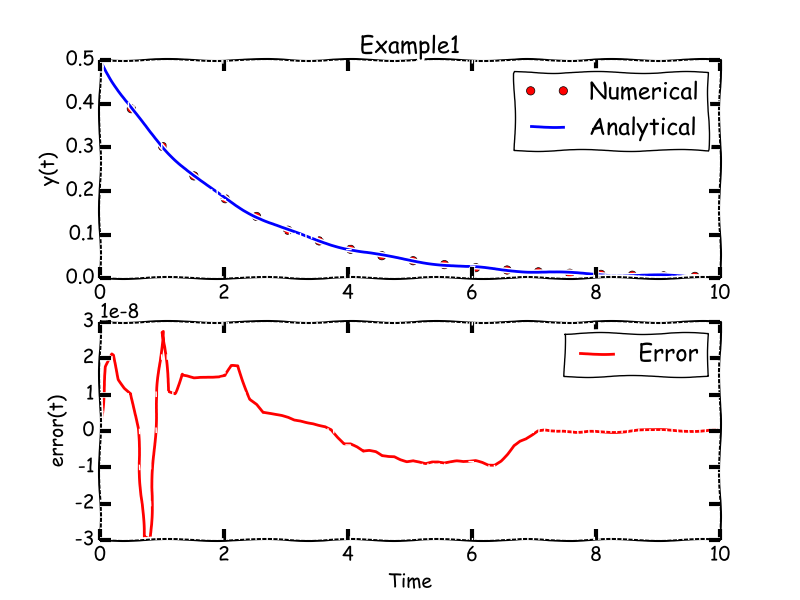
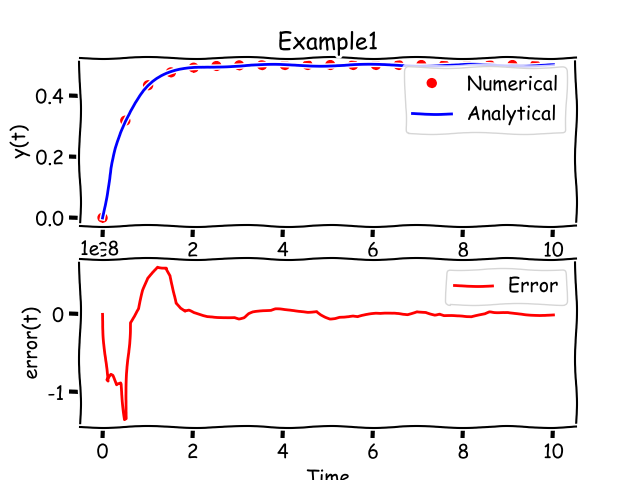
update example 1

diff --git a/ODE_Delta/raw/example1_old.py b/ODE_Delta/raw/example1_old.py
@@ -7,16 +7,17 @@ T = 2.0
 title1 = 'Example1'
 
 def y_ex1(t):
-	return (1.0/T)*(1-np.exp(-t*T))
+	return (1.0/T)*np.exp(-t/T)
 
-va = [1, T, 0]
+va = [T, 1]
 b = 1
 c = 0
-IC0 = [0, 0]
+IC0 = [0]
 t0 = 0
 tb = 10
 N = 100
 
+#Z = hlp.mkSlnT1_a(va, b, IC0, t0, tb, N)
 Z = hlp.mkSlnT1_c(va, b, c, IC0, t0, tb, N)
 
 plt.xkcd()

diff --git a/ODE_Delta/raw/4_VerificationType0.md b/ODE_Delta/raw/4_VerificationType0.md
@@ -1,36 +1,59 @@
 ###3. Verification by examples
 Let's check the main result from previous chapter on examples Appendix B from.
-#####3.1 Example1 [Ogata, p.190]
+#####3.1 Example1 [Oliveira and Cortes, p.3]
 Considering the following first order ODE
-$$\begin{cases}
-Ty'+y=\delta(t),\\
-y(0)=0
-\end{cases}\Rightarrow IVP(\{T\text{ }1\}, \mathbf{0}, t_0=0,y_0=0)\Rightarrow [A]=T,\{y\}_0=y(0),\{d\}=\{1\} \Rightarrow\\
-\{z\}_0=\{y\}_0+[A]^{-1}\{d\}=\{y\}_0+1/T \Rightarrow$$
+$$
+\begin{cases}
+y''+ay'=\delta(t),\\
+y(0)=y'(0)=0
+\end{cases}
+\Rightarrow IVP(\{1\text{ }a\text{ }0\}, \mathbf{0}, t_0=0,y_0=\{0\text{, }0\})\Rightarrow\\
+A=\left[
+    \begin{matrix}
+    1 & 0 \\
+    a & 1 \\
+    \end{matrix}\right]\text{, }
+\{d\}=\left\{
+    \begin{matrix}
+    0 \\
+    1 \\
+    \end{matrix}\right\}\Rightarrow\\
+A^{-1}=\left[
+    \begin{matrix}
+    1 & 0 \\
+    -a & 1 \\
+    \end{matrix}\right]\text{, }
+A^{-1}\{d\}=\left\{
+    \begin{matrix}
+    0 \\
+    1 \\
+    \end{matrix}\right\}
+$$
+
 These 2 following system are equal by solution
-$$\begin{cases}
-Ty'+y=\delta(t),\\
-y(0)=0
-\end{cases}\equiv\begin{cases}
-Tz'+z=0,\\
-z(0)=1/T
+$$
+\begin{cases}
+y''+ay'=\delta(t),\\
+y(0)=y'(0)=0
+\end{cases}
+\equiv
+\begin{cases}
+y''+ay'=0,\\
+y(0)=0\\y'(0)=1
 \end{cases}
 $$
 In short form:
 $$
-IVP(\{T\text{ }1\}, \delta(t), t_0=0,y_0=0)\equiv 
-IVP(\{T\text{ }1\}, 0, t_0=0,y_0=1/T)
+IVP(\{1\text{ }a\text{ }0\}, \delta(t), t_0=0,y_0=\{0\text{, }0\})\equiv 
+IVP(y_0=\{0\text{, }0\}, 0, t_0=0,y_0=\{0\text{, }1\})
 $$
 Which exactely the same as we mentioned before at Introduction (2.6)
 Let's check how to correspond the numerical solution for T=2 for homogenous sytem with non-null IC with analitical solution for the system
-$$
-\begin{cases}
-2y'+y=\delta(t),\\
-y(0)=0
-\end{cases}
-$$
+
 Analitycal solution taken from Appendix B:
-$$y(t)=\frac{1}{T}e^{-t/T}=\frac{1}{2}e^{-t/2}$$
+$$
+y(t)=\frac{1}{a}(1-e^{-at})
+$$
 
 Numerical solution and error provided by Python's script:
 <img src="ex1.png" width="400">

diff --git a/ODE_Delta/raw/References.md b/ODE_Delta/raw/References.md
@@ -28,13 +28,16 @@ Mathematics Department, Michigan State University, East Lansing, MI, 48824.
 Modern Control Engineering (5th edition)
 Copyright © 2010, 2002, 1997, 1990, 1970 Pearson Education, Inc.
 ISBN 10: 0-13-615673-8 ISBN 13: 978-0-13-615673-4
-[10] Rao Singiresu S.
+[10] Mauricio de Oliveira and Jorge Cortes
+Computing the Impulse Response, January 24, 2011
+http://control.ucsd.edu/mauricio/courses/mae143a/lectures/computingImpulseResponse.pdf
+[11] Rao Singiresu S.
 Mechanical Vibrations (5th Edition) 
 ISBN-13: 978-0132128193 ISBN-10: 0132128195
-[11] Weber, Arfken
+[12] Weber, Arfken
 Essential Mathematical Methods for Physicists
 Academic Press, 2003, ISBN: 0-12-059877-9
-[12] ZILL DENNIS G.
+[13] ZILL DENNIS G.
 A FIRST COURSE IN DIFFERENTIAL EQUATIONS with Modeling Applications (9th edition)
 Loyola Marymount University
 © 2009, 2005 Brooks/Cole, Cengage Learning

diff --git a/ODE_Delta/raw/AppendixB.md b/ODE_Delta/raw/AppendixB.md
@@ -1,12 +1,15 @@
-#Apendix B
+Mauricio de Oliveira and Jorge Cortes#Apendix B
 ## Examples
-#####Example1 [??????]
-$$\begin{cases}
-Ty'+y=\delta(t),\\
-y(0)=0
-\end{cases}$$
+#####Example1 [Oliveira and Cortes, p.3]
+$$
+\begin{cases}
+y''+ay'=\delta(t),\\
+y(0)=y'(0)=0
+\end{cases}
+$$
 Solution:
-$$y(t)=\frac{1}{T}e^{-t/T}
+$$
+y(t)=\frac{1}{a}(1-e^{-at})
 $$
 #####Example2 [Finan, pp.57-58]
 $$\begin{cases}
